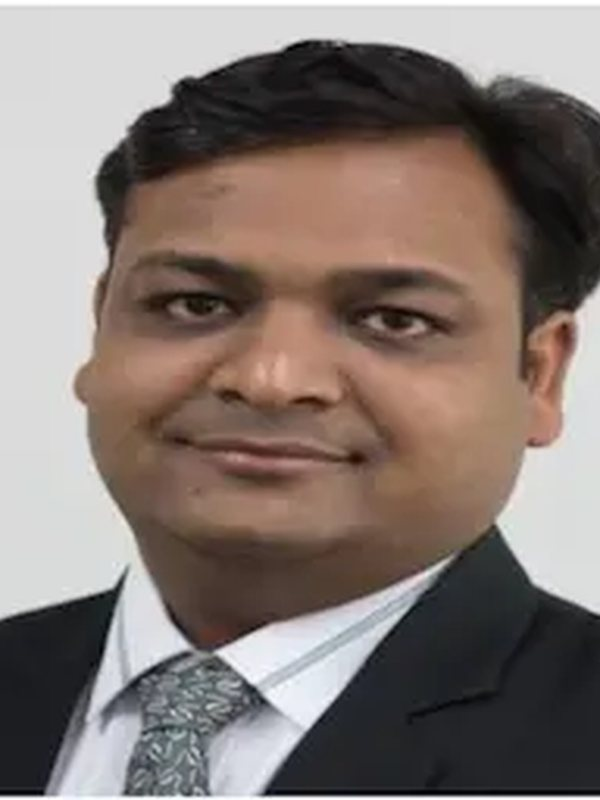
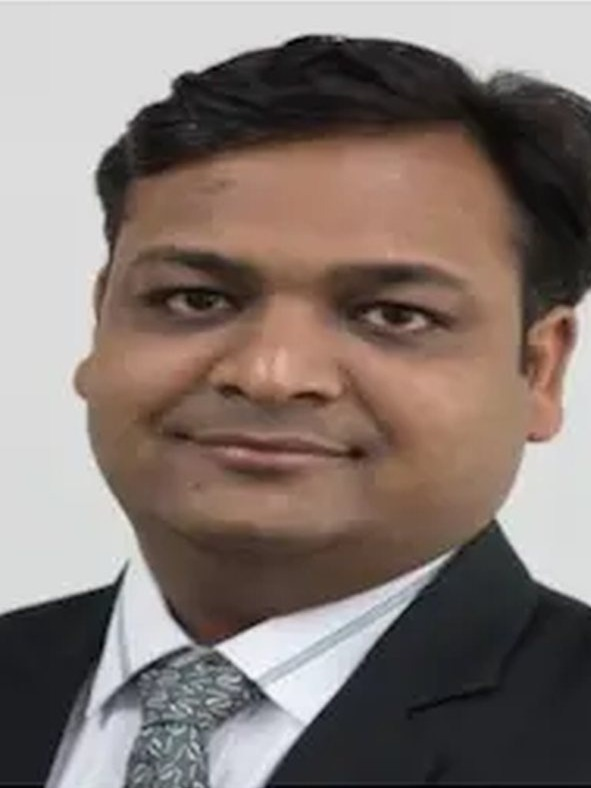
Fix layout defects found in a full-site sweep
Every route was crawled and captured at 1440, 1024 and 390, and each defect
was confirmed by a second reviewer before it was fixed.

- Homepage hero at 1024-1279: the tablet rule gave .hero-inner a bare 44px
  top, so the headline sat under the header pill. It now clears --header-h,
  as 768-1023 already did.
- Testimonials heading centred at 768-1279; it was left-aligned with its
  label centred over it.
- Services accordion on phones: the "Explore" pill had lost its left padding
  to the indent reset.
- Maturity Curve: shadow-[var(--shadow-fin)] compiles to a shadow colour, so
  the cards and panel never drew a shadow. Now an arbitrary box-shadow.
- /contact at desktop: the form stretched to the height of the details
  column, spreading rows ~113px apart and squashing Submit into an oval.
- /solutions: the pillar CTA arrow had no size or stroke (a black triangle at
  390); the pillar rail hid its overflow with no scrollbar or fade; the label
  pills could not grow when their text wrapped.
- Service pages at 768-1279: the stacked decorative panel grew to ~920x610 of
  empty stripes. Capped at 420px.
- /faq: the question list no longer butts against the hero photo.
- 404: the outlined digits no longer draw the variable font's overlapping
  contours.
- /team: captions clear the hanging "+" tile, and the tile no longer runs off
  a phone screen. Two portraits cropped to remove a baked-in black wedge and a
  thin border.
[…]

diff --git a/app/globals.css b/app/globals.css
@@ -294,7 +294,7 @@ h1,h2,h3,p{margin-top:0}
 
 @keyframes chartShimmer{0%{background-position:100% 0}100%{background-position:0 0}}.leader .initials{width:120px;height:120px;border-radius:50%;background:var(--blue);color:#fff;display:grid;place-items:center;font:700 2.2222rem Sora;margin-bottom:70px}.leader small,.person small{font:700 0.6667rem Sora;letter-spacing:.14em;color:var(--blue)}.person{background:#fff;border:1px solid #E0E3E4;border-radius:17px;padding:21px;min-height:185px}.person .avatar{width:38px;height:38px;border-radius:50%;background:#EAF0F3;color:var(--blue);display:grid;place-items:center;font:700 0.7222rem Sora;margin-bottom:30px}.person b{display:block;font:700 0.7778rem Sora}.person span{display:block;font-size:0.7222rem;color:#858585;margin-top:4px}
 /* CONTACT */
-.contact{padding:108px 0}.contact-box{background:var(--dark);color:#fff;border-radius:24px;padding:52px;display:grid;grid-template-columns:1fr .9fr;gap:60px}.contact-box h2{font:700 clamp(38px,4.5vw,60px) Sora;line-height:.98;letter-spacing:-.06em;margin:15px 0 17px}.contact-box p{color:#C5CCCF;font-size:0.8333rem;max-width:520px}.form{display:grid;grid-template-columns:1fr 1fr;gap:12px}.field{display:flex;flex-direction:column;gap:6px}.field.full{grid-column:1/-1}.field label{font:700 0.6667rem Sora;letter-spacing:.12em;color:#AEB7BA}.field input,.field textarea{border:1px solid rgba(255,255,255,.17);background:#2D2D2D;color:#fff;border-radius:10px;padding:11px 12px;outline:none}.field textarea{min-height:90px;resize:vertical}.form button{grid-column:1/-1;justify-self:start}
+.contact{padding:108px 0}.contact-box{background:var(--dark);color:#fff;border-radius:24px;padding:52px;display:grid;grid-template-columns:1fr .9fr;gap:60px}.contact-box h2{font:700 clamp(38px,4.5vw,60px) Sora;line-height:.98;letter-spacing:-.06em;margin:15px 0 17px}.contact-box p{color:#C5CCCF;font-size:0.8333rem;max-width:520px}.form{display:grid;grid-template-columns:1fr 1fr;gap:12px;align-content:start}.field{display:flex;flex-direction:column;gap:6px}.field.full{grid-column:1/-1}.field label{font:700 0.6667rem Sora;letter-spacing:.12em;color:#AEB7BA}.field input,.field textarea{border:1px solid rgba(255,255,255,.17);background:#2D2D2D;color:#fff;border-radius:10px;padding:11px 12px;outline:none}.field textarea{min-height:90px;resize:vertical}.form button{grid-column:1/-1;justify-self:start}
 /* FOOTER */
 /* legacy footer element styling removed: components/ui/footer-section.tsx
    styles the footer with utilities, and an element selector would beat them */
@@ -458,7 +458,7 @@ h1,h2,h3,p{margin-top:0}
    nothing about this changes — the band stays pale with dark type. */
 .page-head{position:relative;overflow:hidden;background:var(--bg-soft);padding:96px 0 56px}
 .page-head>.container{position:relative;z-index:2}
-.page-head h1{font-size:clamp(38px,4.6vw,62px);line-height:1.02;letter-spacing:-.035em;margin:14px 0 18px;max-width:20ch}
+.page-head h1{font-size:clamp(38px,4.6vw,62px);line-height:1.02;letter-spacing:-.035em;margin:14px 0 18px;max-width:20ch;text-wrap:balance}
 .page-head p{max-width:620px;color:var(--gray);font-size:0.9444rem;line-height:1.6;margin:0}
 .case-list{display:grid;grid-template-columns:repeat(2,1fr);gap:12px}
 .case-item{background:#fff;border:1px solid #E0E3E4;border-radius:20px;padding:28px;transition:box-shadow .3s var(--ease-out),border-color .3s var(--ease-out)}
@@ -554,8 +554,10 @@ h1,h2,h3,p{margin-top:0}
 @media(min-width:768px) and (max-width:1279px){
   .container{width:min(920px,calc(100% - 56px))}
   /* the hero is one viewport at every width now; it grows past that
-     only if its own content needs the room */
-  .hero-inner{min-height:auto;padding:44px 0 72px}
+     only if its own content needs the room. The top clears the floating
+     header the hero runs under: a bare 44px left 1024-1279 with the
+     headline behind the pill (768-1023 is corrected again further down) */
+  .hero-inner{min-height:auto;padding:calc(var(--header-h) + 20px) 0 72px}
   .hero h1{font-size:clamp(40px,6.2vw,58px)}
   .sub{font-size:0.9444rem;max-width:60ch}
   
@@ -872,7 +874,10 @@ html{font-size:112.5%}
 @media(max-width:767px){
   .svca-item{padding:12px 14px}
   .svca-list{min-height:640px}
-  .svca-body p,.svca-body .fsvc-link,.svca-prog{padding-left:0;margin-left:0}
+  /* only the paragraph carries the 47px indent as padding; the link and the
+     bar carry it as margin, and the link's own padding is its pill */
+  .svca-body p{padding-left:0}
+  .svca-body .fsvc-link,.svca-prog{margin-left:0}
   .svca-card{padding:20px;border-radius:20px}
 }
 @media(prefers-reduced-motion:reduce){
@@ -1084,8 +1089,11 @@ html{font-size:112.5%}
 
 /* --- 404 ------------------------------------------------------------ */
 .notfound{padding-top:132px;text-align:left}
-.notfound-code{font:800 clamp(88px,17vw,196px) Sora;line-height:.82;letter-spacing:-.06em;
-  color:transparent;-webkit-text-stroke:2px var(--line);margin:0 0 18px}
+/* Sora is served as a variable font, and a bare stroke outlines its
+   overlapping contours too (a box inside each 4). Stroke first, then an opaque
+   fill in the page colour over its inner half, so only the outer edge shows. */
+.notfound-code{font:800 clamp(88px,17vw,196px) Sora;line-height:.82;letter-spacing:-.02em;
+  color:var(--paper);-webkit-text-stroke:4px var(--line);paint-order:stroke fill;margin:0 0 18px}
 .notfound-title{font-size:clamp(34px,4.4vw,58px);line-height:1.02;letter-spacing:-.04em;margin:12px 0 16px;max-width:16ch}
 .notfound-title em{font-style:normal;color:var(--blue)}
 .notfound-body{max-width:52ch;color:var(--gray);font-size:0.9444rem;line-height:1.6;margin:0}
@@ -1350,7 +1358,7 @@ html[data-cookie-banner] .sticky-cta{display:none}
 /* Testimonials centres its head. Scoped to the section rather than changing
    .section-head, which every other section relies on being left-aligned.
    .eyebrow-row is flex, so the pill needs justify-content, not text-align. */
-.quote-section .section-head{justify-content:center;text-align:center}
+.quote-section .section-head{justify-content:center;align-items:center;text-align:center}
 .quote-section .eyebrow-row{justify-content:center}
 .section-head>p{font-size:0.9444rem;line-height:1.6;color:var(--ink-muted);max-width:34ch}
 
@@ -1534,6 +1542,9 @@ html[data-cookie-banner] .sticky-cta{display:none}
 @media (max-width:1279px){
   .service-stats{grid-template-columns:repeat(2,1fr)}
   .service-proof{grid-template-columns:1fr;gap:26px}
+  /* stacked, the decorative panel took the full width at 3:2: a ~920x610 box
+     of stripes that read as an image that had failed to load */
+  .service-proof .abstract-panel{max-width:420px}
 }
 @media (max-width:767px){
     .service-body>.container>*+*{margin-top:40px}
@@ -1731,7 +1742,7 @@ html.is-locked body{overflow:hidden!important;height:100%!important;
 .page-head .faq-head-cta{margin-top:14px;font-size:0.8889rem;color:var(--ink-muted)}
 .page-head .faq-head-cta a{color:var(--blue);font-weight:700}
 /* the section no longer carries a head, so it needs less top room */
-.faq-section{padding-top:0}
+.faq-section{padding-top:56px}
 
 /* =====================================================================
    SOLUTIONS — services card grid (replaces the pinned panel + accordion)
@@ -1812,13 +1823,13 @@ html.is-locked body{overflow:hidden!important;height:100%!important;
 /* ---- the tertiary CTA (CTA tier="tertiary") ----
    A white pill with a trailing arrow. It outlived the six-card services grid
    it was drawn for (SolutionCards, since deleted): the services accordion
-   still uses it. */
+   still uses it, and the pillar CTAs borrow its arrow. */
 .fsvc-link{display:inline-flex;align-items:center;gap:9px;margin-top:10px;
   padding:10px 18px;border-radius:999px;background:#fff;border:1px solid #D7E2EC;
   font:600 .8rem "Plus Jakarta Sans",system-ui,sans-serif;color:var(--ink-deep);
   width:fit-content;box-shadow:0 1px 2px rgba(16,45,68,.06);
   transition:border-color .35s var(--ease-fin),color .35s var(--ease-fin)}
-.fsvc-link svg{width:15px;height:15px;stroke:currentColor;fill:none;stroke-width:1.8;
+.fsvc-link svg,.pillar-cta svg{width:15px;height:15px;flex:none;stroke:currentColor;fill:none;stroke-width:1.8;
   stroke-linecap:round;stroke-linejoin:round;transition:transform .45s var(--ease-fin)}
 
 .fsvc-link:focus-visible{outline:2px solid var(--blue);outline-offset:3px}
@@ -1830,7 +1841,7 @@ html.is-locked body{overflow:hidden!important;height:100%!important;
   .fin-center .fin-lead{margin-left:0}
 }
 @media (prefers-reduced-motion:reduce){
-  .fsvc-link svg,.fin-h2 .accent.uline::after{transition:none}
+  .fsvc-link svg,.pillar-cta svg,.fin-h2 .accent.uline::after{transition:none}
 }
 
 /* ---- MATURITY CURVE (reference treatment) ---- */
@@ -2033,9 +2044,13 @@ html.is-locked body{overflow:hidden!important;height:100%!important;
    wrapping to two rows, which at 6 pillars it otherwise would below ~1200px. */
 .pillar-rail{position:sticky;top:var(--header-h);z-index:20;background:var(--band-white);
   border-bottom:1px solid rgba(16,45,68,.10)}
-.pillar-rail ul{list-style:none;margin:0;padding:0;display:flex;gap:6px;
-  overflow-x:auto;scrollbar-width:none}
-.pillar-rail ul::-webkit-scrollbar{display:none}
+/* It scrolls sideways once the six labels outgrow the row, so it has to look
+   like it: a hidden scrollbar and no fade cut the last pillars off with nothing
+   to say they existed. */
+.pillar-rail ul{list-style:none;margin:0;padding:0 40px 0 0;display:flex;gap:6px;
+  overflow-x:auto;scrollbar-width:thin;
+  -webkit-mask-image:linear-gradient(90deg,#000 calc(100% - 40px),transparent);
+  mask-image:linear-gradient(90deg,#000 calc(100% - 40px),transparent)}
 .pillar-rail a{display:inline-flex;align-items:center;min-height:44px;
   padding:0 13px;white-space:nowrap;text-decoration:none;
   font:600 0.7222rem Sora,sans-serif;letter-spacing:.02em;color:var(--ink-muted);
@@ -2108,7 +2123,7 @@ html.is-locked body{overflow:hidden!important;height:100%!important;
   background:radial-gradient(circle,rgba(255,255,255,.14) 0%,rgba(255,255,255,0) 70%);
   pointer-events:none}
 .pillar-card > *{position:relative;z-index:1}
-.pillar-label{display:inline-flex;align-items:center;height:26px;padding:0 12px;
+.pillar-label{display:inline-flex;align-items:center;min-height:26px;padding:4px 12px;line-height:1.3;
   border-radius:999px;border:1px solid rgba(255,255,255,.30);
   font:600 0.6667rem Sora,sans-serif;letter-spacing:.08em;text-transform:uppercase;
   color:rgba(255,255,255,.88)}
@@ -2187,7 +2202,7 @@ html.is-locked body{overflow:hidden!important;height:100%!important;
 
 .tr-grid{display:grid;grid-template-columns:repeat(3,minmax(0,1fr));gap:84px 146px}
 .tr-grid .tr-shot{aspect-ratio:3/4}
-.tr-grid .tr-cap{padding:0 22px 22px}
+.tr-grid .tr-cap{padding:0 22px 38px}
 .tr-grid .tr-name{font-size:1.1667rem}
 .tr-grid .tr-role{font-size:0.7222rem}
 .tr-grid .tr-rule{width:22px;margin-bottom:12px}
@@ -2202,7 +2217,9 @@ html.is-locked body{overflow:hidden!important;height:100%!important;
 .tr-shot img{object-fit:cover;filter:grayscale(1) contrast(1.04);
   transition:transform .6s var(--ease-out)}
 .tr-card:hover .tr-shot img,.tr-card:focus-visible .tr-shot img{transform:scale(1.04)}
-.tr-cap{position:absolute;left:0;right:0;bottom:0;padding:0 26px 26px;
+/* the bottom padding clears the '+' tile, which hangs 38px up into the card
+   (34px on a phone), so no role line runs under it */
+.tr-cap{position:absolute;left:0;right:0;bottom:0;padding:0 26px 46px;
   background:linear-gradient(to top,rgba(13,24,40,.9),rgba(13,24,40,.55) 42%,rgba(13,24,40,0))}
 .tr-rule{display:block;width:26px;height:2px;margin:0 0 14px;background:var(--blue-light)}
 .tr-name{display:block;font:600 1.3333rem Sora,sans-serif;letter-spacing:-.025em;color:#fff}
@@ -2271,7 +2288,10 @@ html.is-locked body{overflow:hidden!important;height:100%!important;
   .tr-stack .tr-card{width:100%;margin-left:0;margin-right:0}
   .tr-stack .tr-card + .tr-card{margin-top:26px}
   .tr-stack .tr-shot{height:auto;aspect-ratio:3/4}
-  .tr-stack .tr-plus{right:-22px;bottom:-22px;width:56px;height:56px}
+  /* an 18px gutter here (14px under 380): hung further than 10px past the
+     card, the tile ran off the screen and was clipped flat */
+  .tr-stack .tr-plus{right:-10px;bottom:-22px;width:56px;height:56px}
+  .tr-grid .tr-plus{right:-10px}
   .tr-grid{grid-template-columns:1fr;gap:36px}
   .tr-ovwrap{padding:16px}
   .tr-ov{padding:20px;border-radius:18px}

diff --git a/lib/content/gamcs.ts b/lib/content/gamcs.ts
@@ -471,7 +471,7 @@ export const solutions: Solution[] = [
     titleTag: "FP&A Advisory Services for CFOs & CXOs | GAMCS",
     metaDescription:
       "Outsourced FP&A advisory — budgeting, forecasting, rolling cash flow models, revenue/RevOps forecasting, and board-ready reporting for growth-stage companies and PE portfolios.",
-    h1: "FP&A That Moves at the Speed of Your Business — Not Your Month-End Close",
+    h1: "FP&A That Moves at the Speed of Your Business\u00a0— Not Your Month-End Close", // \u00a0 keeps the dash off the start of a balanced line
     intro:
       "If your finance team is still built for controllership and statutory reporting, you already have a strategic FP&A gap. Financial statements tell you what happened. FP&A tells you what to do about it.",
     atAGlance: [
@@ -627,7 +627,7 @@ export const solutions: Solution[] = [
     titleTag: "Platform-Agnostic ERP, CRM & FP&A Implementation | GAMCS",
     metaDescription:
       "ERP, CRM, and FP&A platform implementation — NetSuite, Salesforce, Aimplan, Vena, Anaplan, Unit4, and more — configured by a team with no vendor allegiance.",
-    h1: "The Right Platform, Implemented by People Who Actually Use It — Not Just Sell It",
+    h1: "The Right Platform, Implemented by People Who Actually Use It\u00a0— Not Just Sell It",
     intro:
       "Buying enterprise software solves nothing on its own. Half the value of an ERP, CRM, or FP&A platform gets lost in a bad implementation — a chart of accounts that doesn't match how you actually run the business, a CRM nobody trained the sales team to use, or a forecasting tool configured for data entry instead of real planning. We're platform-agnostic on purpose: we implement whatever's right for your business, not the tool we happen to have a reseller relationship with.",
     atAGlance: [
@@ -672,7 +672,7 @@ export const solutions: Solution[] = [
     titleTag: "M&A, IPO Advisory, Due Diligence & Debt Refinancing | GAMCS",
     metaDescription:
       "Buy-side and sell-side due diligence, M&A advisory, IPO readiness, debt refinancing, and investor/pitch deck preparation for CFOs, PE, and VC-backed companies.",
-    h1: "Deal-Ready Finance — Before the Term Sheet, Not After",
+    h1: "Deal-Ready Finance\u00a0— Before the Term Sheet, Not After",
     intro:
       "The worst time to discover a gap in your financials is during due diligence, when a buyer, investor, or lead underwriter is already asking the hard questions. Most companies find out their numbers aren't deal-ready exactly when it matters most — mid-transaction, under time pressure, with leverage already shifting away from them.",
     atAGlance: [

diff --git a/components/sections/MaturityCurve.tsx b/components/sections/MaturityCurve.tsx
@@ -168,7 +168,7 @@ function SignalFlow({
 
       {arrow}
 
-      <div className="rounded-[14px] bg-blue-dark px-5 py-4 text-center font-heading text-[13px] font-semibold leading-snug text-white shadow-[var(--shadow-fin)]">
+      <div className="rounded-[14px] bg-blue-dark px-5 py-4 text-center font-heading text-[13px] font-semibold leading-snug text-white [box-shadow:var(--shadow-fin)]">
         {engine.split(" ").map((w) => (
           <div key={w}>{w}</div>
         ))}
@@ -270,9 +270,12 @@ export default function MaturityCurve() {
                      emitted nothing and the cards ran at the 150ms default. */
                   "transition-[border-color,box-shadow,transform] ease-reel [transition-duration:var(--dur-panel)]",
                   "min-[900px]:h-[var(--h)]",
+                  /* an arbitrary box-shadow property, not the shadow utility:
+                     given a bare var() that utility is read as a shadow colour,
+                     so no shadow was drawn at all */
                   isActive
-                    ? "border-blue shadow-[var(--shadow-fin)]"
-                    : `${HAIR} hover:border-blue/40 hover:-translate-y-1 hover:shadow-[var(--shadow-fin)]`,
+                    ? "border-blue [box-shadow:var(--shadow-fin)]"
+                    : `${HAIR} hover:border-blue/40 hover:-translate-y-1 hover:[box-shadow:var(--shadow-fin)]`,
                 ].join(" ")}
               >
                 {/* pinstripes, fading downward */}
@@ -328,7 +331,7 @@ export default function MaturityCurve() {
           id="stage-panel"
           role="tabpanel"
           aria-labelledby={`stage-tab-${stage.n}`}
-          className={`mt-6 rounded-[24px] border ${HAIR} bg-white p-6 shadow-[var(--shadow-fin)] sm:p-9`}
+          className={`mt-6 rounded-[24px] border ${HAIR} bg-white p-6 [box-shadow:var(--shadow-fin)] sm:p-9`}
         >
           <div className={`${LABEL} text-blue`}>Stage {stage.n}</div>
 

diff --git a/app/thank-you/page.tsx b/app/thank-you/page.tsx
@@ -36,7 +36,7 @@ export default function ThankYouPage() {
         <div className="container">
           <Breadcrumbs trail={[{ label: "Thank you", href: "/thank-you" }]} />
           <div className="section-kicker">MESSAGE READY</div>
-          <h1>Thanks — your details are on their way.</h1>
+          <h1>Thanks&nbsp;— your details are on their way.</h1>
           <p>
             Submitting the form opens your own email app with everything you
             entered, addressed to {site.email}. Press send there and it reaches
